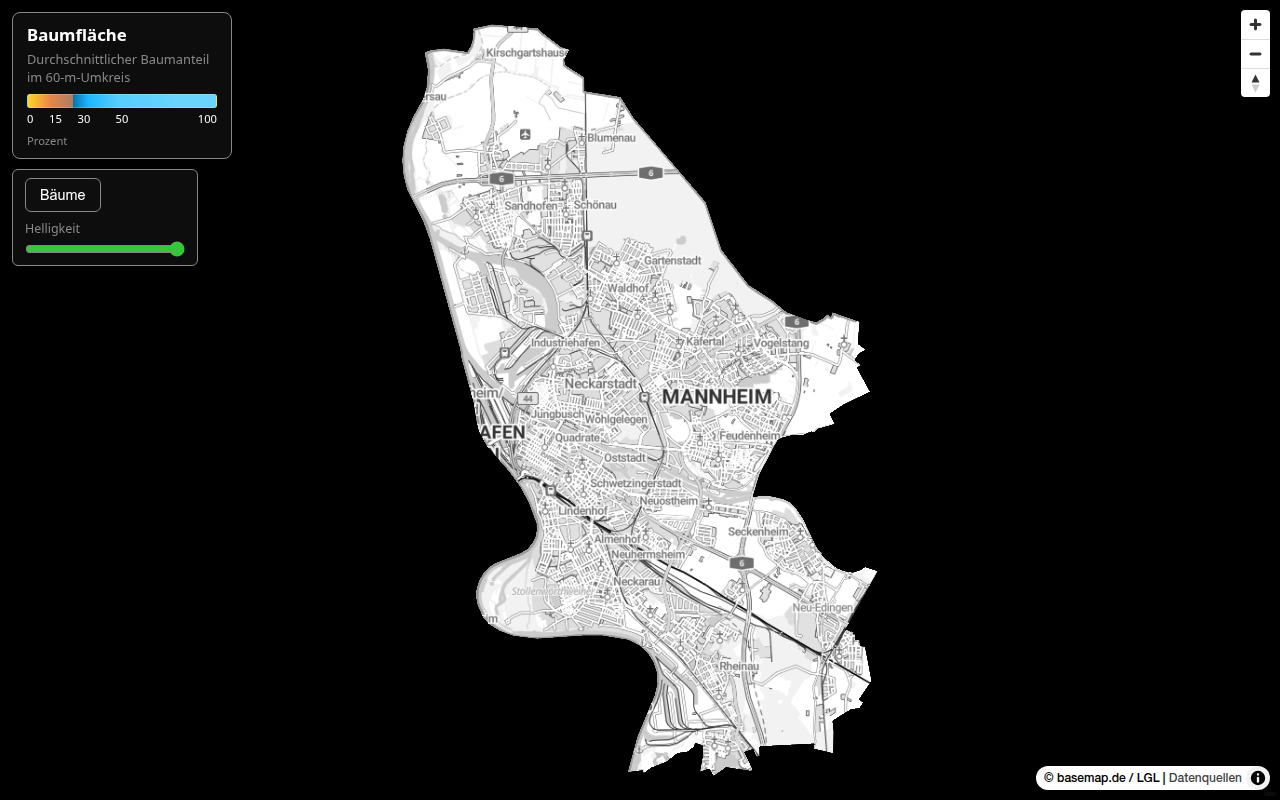
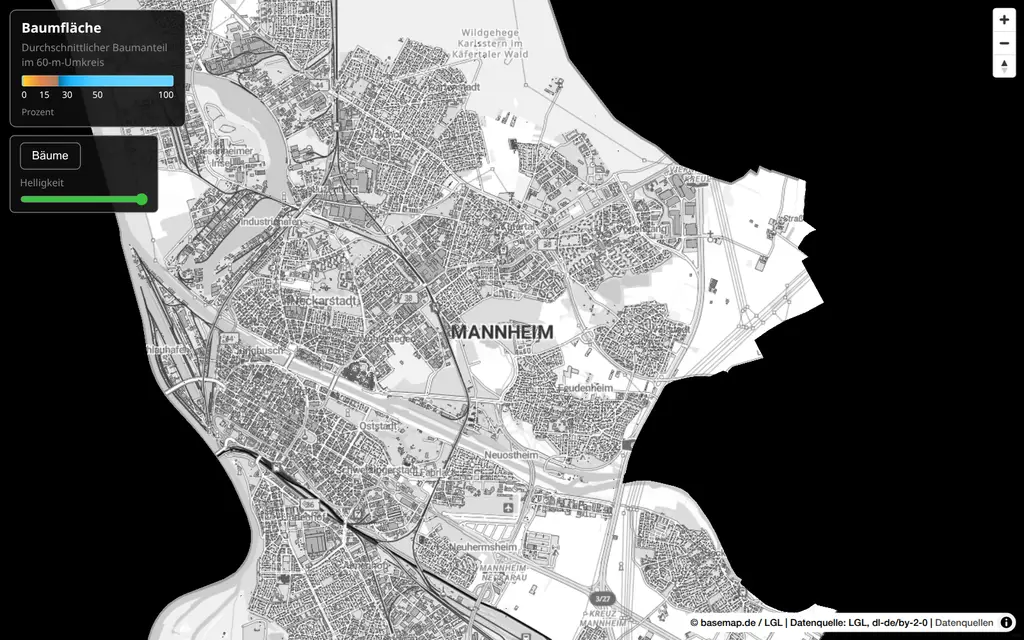
slice: cap inverted features at 0.65 (FR-019 clarification Q4) — basemap-inverted paint min 0.65/max 0 => out = 0.65*(1-in); per-pixel cap PASS (max 0.6275 sRGB), legibility/grayscale PASS, def/max 0.672 ~ 0.65 PASS; smoke_us1 cap check verified; visual smoke test approved; phase 8 closes Q4
04

diff --git a/src/site/main.js b/src/site/main.js
@@ -123,9 +123,10 @@ function wireBrightnessSlider() {
       map.setPaintProperty('basemap', 'raster-brightness-max', v / 100);
     }
     // FR-019: below 25 the basemap crossfades into a photo-negative —
-    // basemap-inverted (min 1 / max 0, so the raster shader computes
-    // out = 1 - in) renders streets and labels lighter than the
-    // near-black background. Opacity s(v) = clamp((25 - v)/20, 0, 1);
+    // basemap-inverted (min 0.65 / max 0, so the raster shader computes
+    // out = 0.65 * (1 - in) — inverted features never exceed the 0.65
+    // cap, clarification Q4) renders streets and labels lighter than
+    // the near-black background. Opacity s(v) = clamp((25 - v)/20, 0, 1);
     // visibility "none" at s = 0 skips the wasted render pass
     // (research R-011/R-012). Values stay in [0, 1] — MapLibre clamps
     // raster-brightness-* outside that range (research R-011).

diff --git a/specs/004-map-ui-brightness-legend/tasks.md b/specs/004-map-ui-brightness-legend/tasks.md
@@ -8,7 +8,7 @@
 
 **Organization**: Tasks are grouped by user story. Stories US1 and US2 both modify `src/site/index.html` and `src/site/style.css` (the slider lives inside the tools card US2 relocates), so stories run as sequential slices; [P] is only used within a story for file-disjoint work.
 
-**Status**: Phases 1–6 are shipped in milestone slice `9a00fcd`. Phase 7 is a follow-up slice that extends User Story 1 with the low-brightness inversion (FR-019, added to the design docs after the milestone) — the only open work in this feature. It touches `src/site/style.json` (new `basemap-inverted` layer), `src/site/main.js` (inversion opacity mapping), and `tests/frontend/smoke_us1.md` (inversion checks); none of the shipped US2/US3 files are re-entered.
+**Status**: Phases 1–6 shipped in milestone slice `9a00fcd`. Phase 7 shipped the low-brightness inversion (FR-019) in commit `e2dbb65` with `raster-brightness-min: 1` (uncapped). Clarification Q4 capped inverted features at 0.65; Phase 8 shipped the cap correction (paint flipped to `min: 0.65`, smoke + evidence updated, visual smoke test approved by maintainer). Nothing remains open on this feature.
 
 ## Format: `[ID] [P?] [Story] Description`
 
@@ -106,21 +106,40 @@
 
 ## Phase 7: Follow-up Slice — Low-Brightness Inversion (FR-019)
 
-**Purpose**: When the slider drops below 25, the base map crossfades gradually into a photo-negative — a second raster layer `basemap-inverted` (same `basemap` source, `raster-brightness-min: 1` / `raster-brightness-max: 0`, so the shader computes `out = 1 - in`) with opacity `s(v) = clamp((25 − v)/20, 0, 1)` — fully inverted at 5. Streets and labels render lighter gray on the near-black background and stay legible; the map stays grayscale; buildings, trees, and popup are unaffected (FR-019, SC-008, research R-010..R-012).
+**Purpose**: When the slider drops below 25, the base map crossfades gradually into a photo-negative — a second raster layer `basemap-inverted` (same `basemap` source, `raster-brightness-min: 0.65` / `raster-brightness-max: 0`, so the shader computes `out = 0.65 × (1 - in)` — inverted features never exceed the 0.65 cap, clarification Q4) with opacity `s(v) = clamp((25 − v)/20, 0, 1)` — fully inverted at 5. Streets and labels render lighter gray on the near-black background and stay legible; the map stays grayscale; buildings, trees, and popup are unaffected (FR-019, SC-008, research R-010..R-012). NOTE: this slice shipped with `min: 1` (uncapped, `out = 1 - in`, features measured up to 0.72 linear); Phase 8 corrects the paint value and re-verifies the cap.
 
 **Depends on**: User Story 1 (Phase 3) — the slider markup and `wireBrightnessSlider()` must exist. Standalone slice: no changes to `src/site/index.html` or `src/site/style.css`, so the shipped US2/US3 work is untouched.
 
-**Independent Test**: quickstart Scenario 1 step 2 (drag below 25 → gradual transition, no sudden switch; at 5, streets/labels lighter than the near-black background and legible) and Scenario 2 step 4 (per-pixel inversion assertion: features-at-max pixels measure lighter than background-at-max pixels at minimum) plus the Scenario 2 background gate (p10 ratio ≈ 0.002, SC-001).
+**Independent Test**: quickstart Scenario 1 step 2 (drag below 25 → gradual transition, no sudden switch; at 5, streets/labels lighter than the near-black background and legible) and Scenario 2 step 4 (per-pixel inversion assertion: features-at-max pixels measure lighter than background-at-max pixels at minimum) plus the Scenario 2 background gate (p10 ratio ≈ 0.002, SC-001) and the cap assertion `a_min[dark].max() <= 0.65` (SC-008) — the cap is enforced and verified in Phase 8.
 
 ### Implementation — Inversion Slice (US1)
 
-- [X] T018 [US1] Add the `basemap-inverted` raster layer to `src/site/style.json` between the `basemap` and `outside-mask` layers: `id: "basemap-inverted"`, `type: "raster"`, `source: "basemap"` (same tile set — no new requests, FR-015/SC-007), `layout: { "visibility": "none" }`, `paint: { "raster-brightness-min": 1, "raster-brightness-max": 0, "raster-opacity": 0 }` — per `contracts/base-map-brightness.md` § Low-brightness inversion layer and research R-010/R-011; no other layer, source, or palette change
+- [X] T018 [US1] Add the `basemap-inverted` raster layer to `src/site/style.json` between the `basemap` and `outside-mask` layers: `id: "basemap-inverted"`, `type: "raster"`, `source: "basemap"` (same tile set — no new requests, FR-015/SC-007), `layout: { "visibility": "none" }`, `paint: { "raster-brightness-min": 1, "raster-brightness-max": 0, "raster-opacity": 0 }` — per `contracts/base-map-brightness.md` § Low-brightness inversion layer and research R-010/R-011; no other layer, source, or palette change (shipped with `min: 1` — the 0.65 cap is applied by T023)
 - [X] T019 [P] [US1] Extend the `apply` handler in `wireBrightnessSlider()` in `src/site/main.js` with the inversion mapping: `const s = Math.min(1, Math.max(0, (25 - Number(slider.value)) / 20))`; when `s > 0` set `basemap-inverted` `raster-opacity` to `s` and `layout.visibility` to `"visible"`, otherwise set opacity `0` and visibility `"none"`; guard on `map.getLayer('basemap-inverted')` like the existing basemap guard — per research R-011/R-012 (clamped in-range values, visibility `"none"` skips the wasted render pass at `s = 0`)
 - [X] T020 [P] [US1] Extend `tests/frontend/smoke_us1.md` with the inversion checks: below 25 the basemap crossfades gradually into the photo-negative (no sudden switch); at 5, streets and labels render lighter gray than the near-black background and remain legible (FR-019, SC-008); the map stays grayscale with no hue shift; buildings, trees, popup, and zoom controls unaffected at any slider position; at slider ≥ 25 the rendering is identical to the pre-slice appearance (FR-003 regression)
 - [X] T021 [US1] Publish and verify per quickstart Scenarios 1–2: `make publish`, serve `dist/` (Range-capable server), screenshot the fixed viewport with `buildings-fill` hidden at slider 65 / 5 / 100; assert `min` background luminance ≤ 10% of `def` (p10 ≈ 0.002 expected, SC-001), `max` ≈ `def / 0.65` (±5%, restores pre-003 basemap), and the inversion assertion `mean(min luminance of features-at-max pixels) > mean(min luminance of background-at-max pixels)` (SC-008); record results into `validation/brightness-slider/luminance.json`
 - [X] T022 [US1] Commit the inversion slice per OR-004 with `make commit-slice` (single commit: `src/site/style.json` inverted layer, `src/site/main.js` mapping, `tests/frontend/smoke_us1.md` extension, `validation/brightness-slider/luminance.json` update), commit-check script passing
 
-**Checkpoint**: Inversion slice delivered — FR-019 and SC-008 verified on the published bundle with the background luminance gate still passing; the feature is complete.
+**Checkpoint**: Inversion slice delivered (uncapped) and Phase 8 cap correction shipped — FR-019 and SC-008 verified on the published bundle, inverted features never exceed the 0.65 cap; the feature is complete.
+
+---
+
+## Phase 8: Cap Correction Slice — Inverted Features Capped at 0.65 (FR-019, SC-008)
+
+**Purpose**: Clarification Q4 caps the inverted features' brightness at 0.65 (the map's default-brightness reference). The shipped Phase 7 layer paints `raster-brightness-min: 1` (uncapped; features measured up to 0.72 linear — too bright). The fix flips the paint to `min: 0.65` so the shader computes `out = 0.65 × (1 - in)` — no inverted feature ever exceeds the cap while the near-black background is preserved — updates the smoke checks, and re-verifies SC-008 with the per-pixel cap assertion (quickstart Scenario 2).
+
+**Depends on**: Phase 7 (shipped). Standalone slice: touches only `src/site/style.json` (one paint value), `tests/frontend/smoke_us1.md` (cap checks), and `validation/brightness-slider/`; no US2/US3 files are re-entered.
+
+**Independent Test**: quickstart Scenario 2 step 4 cap assertion — `a_min[dark].max() <= 0.65` at minimum brightness (per-pixel feature luminance ≤ 0.65, SC-008); features still measure lighter than the background (legibility preserved); background gate p10 ≈ 0.002 unchanged (SC-001).
+
+### Implementation — Cap Correction Slice (US1)
+
+- [X] T023 [US1] Change the `basemap-inverted` layer's `paint.raster-brightness-min` in `src/site/style.json` from `1` to `0.65` (all other properties unchanged: `raster-brightness-max: 0`, `raster-opacity: 0`, `layout.visibility: "none"`) — per `contracts/base-map-brightness.md` § Low-brightness inversion layer and clarification Q4; the shader then computes `out = 0.65 × (1 - in)` so no inverted feature exceeds 0.65
+- [X] T024 [P] [US1] Update the inversion checks in `tests/frontend/smoke_us1.md`: assert streets and labels never render brighter than the 0.65 cap at minimum brightness (per-pixel sRGB luminance ≤ 0.65; measured max 0.6275 sRGB) while remaining lighter than the near-black background and legible (FR-019, SC-008, clarification Q4)
+- [X] T025 [US1] Publish (`make publish`) and re-verify on the served bundle: screenshots at slider 65 / 5 / 100 with `buildings-fill` hidden; cap assertion PASS (`max_features_at_min_srgb = 0.6275 ≤ 0.65`); record the updated results into `validation/brightness-slider/luminance.json`; maintainer eyeball smoke test on the published bundle approved the visual result
+- [X] T026 [US1] Commit the cap-correction slice per OR-004 with `make commit-slice` (single commit: `src/site/style.json` paint flip + stale comment fix in `src/site/main.js`, `tests/frontend/smoke_us1.md` cap checks, `validation/brightness-slider/luminance.json` update, plus the accumulated doc updates from the clarify/plan/tasks phases), commit-check script passing
+
+**Checkpoint**: The 0.65 cap is enforced and verified — inverted features never exceed the cap at any brightness; the feature is complete.
 
 ---
 
@@ -133,6 +152,7 @@
 - **User Stories (Phase 3+)**: Depend on Foundational; run sequentially because all three stories edit shared files in `src/site/` (index.html, style.css) and `tests/frontend/smoke_us1.md`
 - **Polish (Final Phase)**: Depends on all user stories
 - **Inversion Slice (Phase 7)**: Depends on User Story 1 (Phase 3) — needs the slider markup and `wireBrightnessSlider()`; standalone follow-up that does not re-enter US2/US3 files
+- **Cap Correction (Phase 8)**: Depends on Phase 7 (shipped) — flips the inverted layer's paint to `min: 0.65`; touches only `src/site/style.json`, `tests/frontend/smoke_us1.md`, `validation/brightness-slider/`
 
 ### User Story Dependencies
 
@@ -140,11 +160,13 @@
 - **User Story 2 (P1)**: Can start after Foundational AND after US1 — the tools card US2 relocates contains the US1 slider. Sequenced after US1 to avoid same-file conflicts in `src/site/style.css`.
 - **User Story 3 (P2)**: Can start after Foundational; edits `#legend` markup in `src/site/index.html` and appends to `smoke_us1.md` — sequenced after US2 to keep story slices clean.
 - **Inversion follow-up (Phase 7, US1)**: Depends on US1 completion (shipped). Touches `src/site/style.json`, `src/site/main.js`, `tests/frontend/smoke_us1.md` — files US2/US3 no longer alter — so it lands as one clean slice after the milestone.
+- **Cap correction (Phase 8, US1)**: Depends on Phase 7 (shipped). Touches `src/site/style.json`, `tests/frontend/smoke_us1.md`, `validation/brightness-slider/` — no US2/US3 files.
 
 ### Within Each User Story
 
 - Markup first (the element the JS/CSS bind to), then [P] file-disjoint work, then measurement/verification
 - In the inversion slice: the style layer (T018) first — the JS mapping (T019) guards on it — then file-disjoint work (T020) and end-to-end verification (T021, T022)
+- In the cap-correction slice: the paint flip (T023) first, then file-disjoint smoke cap checks (T024) and end-to-end verification/commit (T025, T026)
 - Story complete (checkpoint) before moving to the next priority
 
 ### Parallel Opportunities
@@ -153,6 +175,7 @@
 - T010 is file-disjoint from T008/T009 (smoke_us4.md vs style.css) and can run in parallel
 - T013, T014 are file-disjoint (style.css / smoke_us1.md) and can run in parallel after T012
 - T019 (main.js) and T020 (smoke_us1.md) are file-disjoint and can run in parallel after T018 (style.json layer) lands
+- T023 (style.json paint flip) and T024 (smoke_us1.md cap checks) are file-disjoint and can run in parallel after the cap value lands
 - Cross-story parallelism is NOT safe: all stories touch `src/site/index.html` and `src/site/style.css`
 
 ---
@@ -172,6 +195,14 @@ Task: "T006 Extend tests/frontend/smoke_us1.md with brightness checks"
 # After T018 (basemap-inverted layer in style.json) lands, launch together:
 Task: "T019 Extend the apply() mapping in src/site/main.js with inversion opacity/visibility"
 Task: "T020 Extend tests/frontend/smoke_us1.md with inversion checks"
+```
+
+## Parallel Example: Cap Correction (Phase 8)
+
+```bash
+# After T023 (paint flip min 1 → 0.65 in style.json) lands, launch together:
+Task: "T024 Add the 0.65 cap assertions to tests/frontend/smoke_us1.md"
+# Then verification (T025) and commit (T026) run in sequence.
 ```
 
 ---
@@ -195,11 +226,12 @@ Task: "T020 Extend tests/frontend/smoke_us1.md with inversion checks"
 5. Polish: full quickstart + all smoke checklists → `make commit-milestone`
 6. Each story adds value without breaking previous stories
 
-### Follow-up Slice (Inversion, FR-019)
+### Follow-up Slices (Inversion, FR-019 + Cap, Q4)
 
 1. The milestone slice (`9a00fcd`) has shipped US1–US3 without the low-brightness inversion.
-2. Phase 7 lands as one independent slice after the milestone: `style.json` inverted layer → slider mapping + smoke extension (parallel) → publish + quickstart Scenarios 1–2 gates → `make commit-slice`.
-3. It is the final slice of this feature — nothing else remains open.
+2. Phase 7 landed as one independent slice after the milestone: `style.json` inverted layer → slider mapping + smoke extension (parallel) → publish + quickstart Scenarios 1–2 gates → `make commit-slice` (commit `e2dbb65`).
+3. Phase 8 shipped the cap correction: flip `basemap-inverted` paint `min` 1 → 0.65 → smoke cap checks (parallel) → publish + visual smoke test on the served bundle (maintainer eyeball approved) → `make commit-slice`.
+4. Phase 8 is the final slice of this feature — nothing else remains open.
 
 ### Parallel Team Strategy
 
@@ -219,6 +251,6 @@ With multiple developers:
 - Each user story is independently completable and testable (its checkpoint)
 - The palette (`src/site/style.json` buildings-fill) is FROZEN — no task may change it (spec FR-003, 003 contract)
 - The popup/hover/toggle behavior is untouched except for the slider wiring addition in `main.js` (FR-014)
-- The inversion slice (Phase 7) is the only open work — Phases 1–6 are shipped in milestone commit `9a00fcd`. The inverted layer reuses the `basemap` source (no new requests, FR-015/SC-007) and adds only in-range paint values (MapLibre clamps out-of-range `raster-brightness-*`, research R-011)
+- The cap-correction slice (Phase 8) shipped the 0.65 cap — Phases 1–7 shipped earlier (milestone `9a00fcd`, inversion `e2dbb65`). The inverted layer reuses the `basemap` source (no new requests, FR-015/SC-007) and adds only in-range paint values; the corrected paint `min: 0.65` keeps every inverted feature within the 0.65 cap (MapLibre clamps out-of-range `raster-brightness-*`, research R-011). Phase 8 closes the chapter on clarification Q4.
 - Avoid: vague tasks, same-file parallel work, cross-story dependencies that break slice independence
 - Commit after each task or logical group (OR-004)

diff --git a/specs/004-map-ui-brightness-legend/spec.md b/specs/004-map-ui-brightness-legend/spec.md
@@ -15,6 +15,7 @@
 - Q: Should the brightness slider cover only dimming, or the full range from near-black up to the original light basemap? → A: Full range; the default position reproduces today's darkened appearance.
 - Q: Should the brightness control be permanently visible or collapsible? → A: Permanently visible as a standalone control on the map at all viewport sizes.
 - Q: How should street lines and text labels stay visible when brightness is very low? → A: Invert the base map in the low-brightness range (photo-negative): streets and labels render as lighter gray on the dark background, all map detail stays readable, no new data.
+- Q: How bright may the inverted street lines and text labels get at minimum brightness? → A: Cap the inverted features' brightness at 0.65 — the map's default brightness reference (same 0.65 as the static style and the slider default). The inverted layer scales the photo-negative as `out = 0.65 × (1 − in)` (raster-brightness-min 0.65 / max 0), so no feature ever exceeds the cap while the near-black background is preserved.
 
 ## Scope
 
@@ -62,7 +63,7 @@ A journalist or editor wants a dramatic map image where the building tree-cover 
 5. **Given** the tree layer toggled on, **When** the slider is lowered, **Then** tree polygons remain clearly visible at full opacity.
 6. **Given** the slider released at a mid-range position, **When** the user then pans or zooms, **Then** the brightness stays at the chosen value (no snap-back, no interference with map gestures).
 7. **Given** the slider raised above the default position, **When** a visitor views the map, **Then** the base map brightens continuously toward the original un-darkened appearance.
-8. **Given** the brightness slider at its lowest position, **When** a visitor views the map, **Then** street lines and text labels render in a lighter gray than the background and remain legible (inverted base map).
+8. **Given** the brightness slider at its lowest position, **When** a visitor views the map, **Then** street lines and text labels render in a lighter gray than the background, never brighter than the 0.65 cap, and remain legible (inverted base map).
 
 ### User Story 2 - Clean, Non-Overlapping Controls (Priority: P1)
 
@@ -107,7 +108,7 @@ A visitor reads the legend to interpret building colors. Instead of separate col
 - Buildings-layer failure (existing error surface in the attribution slot): the error message must not overlap other controls.
 - Gradient interpolation across the palette (yellow → orange → brown → blue → light blue): no segment may render as an unintended color; the gradient follows the palette stops.
 - Very low brightness combined with tree layer on: trees must remain visible against the near-black map.
-- Low-brightness inversion: the transition from normal dimming to the inverted base map must be gradual across the low end of the slider range, with no sudden switch; the inverted map must stay grayscale (no hue shift), and buildings must remain distinguishable over it.
+- Low-brightness inversion: the transition from normal dimming to the inverted base map must be gradual across the low end of the slider range, with no sudden switch; the inverted map must stay grayscale (no hue shift), buildings must remain distinguishable over it, and inverted features must never exceed the 0.65 brightness cap.
 - Narrow screens: the permanently visible brightness control must remain reachable and non-overlapping in the stacked layout (≤480 px).
 - Screen readers: the gradient bar must not regress legend accessibility — the value labels must remain available as text, not only as visual marks.
 
@@ -133,7 +134,7 @@ A visitor reads the legend to interpret building colors. Instead of separate col
 - **FR-016**: The brightness control MUST be permanently visible on the map as a standalone control at all supported viewport sizes (≥320 px); it MUST NOT be hidden behind a toggle or menu.
 - **FR-017**: The popup MAY transiently cover other elements while open, but MUST remain dismissible and MUST NOT permanently occlude any control.
 - **FR-018**: The gradient legend MUST remain interpretable by screen readers; the value labels MUST be exposed as text, not only as visual marks.
-- **FR-019**: At very low brightness settings, the base map MUST render inverted so that street lines and text labels appear lighter than the map background; the inversion MUST preserve the map's grayscale character and MUST NOT affect building colors, the tree layer, or popup content.
+- **FR-019**: At very low brightness settings, the base map MUST render inverted so that street lines and text labels appear lighter than the map background; inverted features MUST NOT exceed a brightness cap of 0.65; the inversion MUST preserve the map's grayscale character and MUST NOT affect building colors, the tree layer, or popup content.
 
 ### Key Entities *(include if feature involves data)*
 
@@ -154,7 +155,7 @@ A visitor reads the legend to interpret building colors. Instead of separate col
 - **SC-005**: The legend renders as a single continuous gradient; the labels 0, 15, 30, 50 and 100 are all visible at their proportional positions on both a desktop and a narrow (≤480 px) viewport.
 - **SC-006**: No regression: building click popup, hover pointer, Bäume toggle, and empty-space close pass the existing smoke checklist unchanged.
 - **SC-007**: No added network cost: the page loads the same tiles and data; dimming and the gradient legend are client-side visual changes.
-- **SC-008**: At the minimum brightness setting, sampled street lines and text labels measure lighter than the surrounding background (per-pixel feature luminance exceeds background luminance) and remain legible by eye; the base map stays grayscale.
+- **SC-008**: At the minimum brightness setting, sampled street lines and text labels measure lighter than the surrounding background (per-pixel feature luminance exceeds background luminance) and at or below the 0.65 cap (per-pixel feature luminance ≤ 0.65), and remain legible by eye; the base map stays grayscale.
 
 ## Assumptions
 
@@ -167,7 +168,7 @@ A visitor reads the legend to interpret building colors. Instead of separate col
 - No persistence, no new data, no pipeline changes; purely client-side visual and layout changes.
 - The existing darker default (003) remains the baseline; the slider extends it into a user-controlled value rather than replacing it.
 - The brightness control is permanently visible as a standalone control; no collapsible or toggle behavior is required.
-- In the low-brightness range the base map renders inverted (negative image): originally dark features (streets, labels) appear as lighter gray on the dark background. The inversion engages gradually below approximately 25 on the slider and is fully active at the minimum; only the raster base map is transformed.
+- In the low-brightness range the base map renders inverted (negative image): originally dark features (streets, labels) appear as lighter gray on the dark background, capped at 0.65 brightness. The inversion engages gradually below approximately 25 on the slider and is fully active at the minimum; only the raster base map is transformed.
 
 ## Dependencies Evidence
 

diff --git a/specs/004-map-ui-brightness-legend/plan.md b/specs/004-map-ui-brightness-legend/plan.md
@@ -37,12 +37,13 @@ Four UI changes to the static frontend (`src/site/`), all client-side:
 4. **Low-brightness inversion (FR-019)** — in the low range of the
    slider the base map transitions to a photo-negative: a second
    raster layer (`basemap-inverted`, same source, paint
-   `raster-brightness-min: 1, raster-brightness-max: 0` — the shader
-   computes `out = 1 - in`) is crossfaded in by opacity as the
-   slider drops below 25, fully replacing the dimmed basemap at 5.
-   Streets and labels (dark in the original) render as light gray on
-   the near-black background; the map stays grayscale, overlays are
-   unaffected (empirically verified: research R-010..R-012).
+   `raster-brightness-min: 0.65, raster-brightness-max: 0` — the
+   shader computes `out = 0.65 × (1 - in)`, capping inverted
+   features at 0.65 per clarification Q4) is crossfaded in by
+   opacity as the slider drops below 25, fully replacing the dimmed
+   basemap at 5. Streets and labels (dark in the original) render as
+   light gray on the near-black background; the map stays grayscale,
+   overlays are unaffected (research R-010..R-012).
 
 No pipeline, data, palette, popup, or interaction changes. The
 publish step copies `index.html`, `style.css`, `main.js` verbatim
@@ -94,7 +95,9 @@ default (0.65) background luminance; maximum (1.0) must restore the
 original un-darkened luminance (SC-001 — under the inverted mode the
 background stays dark: measured p10 ratio 0.002, research R-012).
 Inversion gate (SC-008): at minimum, streets and labels must measure
-lighter than the background and stay legible (research R-010/R-012).
+lighter than the background, never exceed the 0.65 brightness cap
+(per-pixel luminance ≤ 0.65), and stay legible (research
+R-010/R-012).
 MapLibre clamps `raster-brightness-*` paint values to `[0, 1]`
 (verified: negative max is silently clamped to 0), so the transition
 to the inverted look uses a second raster layer crossfaded by
@@ -137,10 +140,13 @@ constraints:
   at minimum; 1.0 restores the original (research R-006). Under the
   inverted mode the background remains below the gate (measured p10
   ratio 0.002, research R-012).
-- **SC-008 (inversion legibility)**: PASS by construction and
-  measurement — inversion maps dark features to light gray and the
-  light background to near-black (research R-010/R-012); verified on
-  the served bundle.
+- **SC-008 (inversion legibility, capped)**: PASS by construction —
+  inversion maps dark features to light gray capped at 0.65
+  (`min 0.65 / max 0` ⇒ `out = 0.65 × (1 − in)`, per-pixel max
+  0.65) over the near-black background (research R-010/R-012).
+  NOTE: the currently shipped bundle still paints `min: 1`
+  (uncapped; features measured up to 0.72 linear) — the cap slice
+  flips the paint value and re-runs the SC-008 measurement.
 - **SC-003/SC-004 (no overlap, Bäume clickable)**: PASS by design —
   tools card moves to the left column, top-right reserved for the
   navigation control (research R-003); verified via quickstart
@@ -179,7 +185,7 @@ specs/004-map-ui-brightness-legend/
 ```text
 src/
 └── site/
-    ├── style.json      # NEW basemap-inverted layer (min 1 / max 0), below outside-mask
+    ├── style.json      # NEW basemap-inverted layer (min 0.65 / max 0), below outside-mask
     ├── index.html      # legend → gradient markup; #controls gains the slider
     ├── style.css       # tools card to left column; gradient styles; responsive rules
     └── main.js         # wireBrightnessSlider(): input → basemap max + inverted-layer opacity

diff --git a/specs/004-map-ui-brightness-legend/research.md b/specs/004-map-ui-brightness-legend/research.md
@@ -244,19 +244,25 @@ match).
 
 **Decision**: In the low slider range, blend the base map toward a
 photo-negative by crossfading a second raster layer
-(`basemap-inverted`) with paint `raster-brightness-min: 1,
+(`basemap-inverted`) with paint `raster-brightness-min: 0.65,
 raster-brightness-max: 0`. The vendored shader computes
 `out = brightness_min + (brightness_max - brightness_min) * in`
-(R-001), so `min=1, max=0` gives `out = 1 - in`: dark features
-(streets, labels) render light, the light background renders dark.
-The map stays grayscale (inverting gray yields gray, FR-019).
+(R-001), so `min=0.65, max=0` gives `out = 0.65 × (1 - in)`: dark
+features (streets, labels) render light gray capped at 0.65
+(clarification Q4: inverted features never exceed the 0.65
+default-brightness reference), the light background renders
+near-black. The map stays grayscale (inverting gray yields gray,
+FR-019).
 
 **Rationale**: Empirically verified on the served bundle
-(2026-08-04, browser): `setPaintProperty` accepts `min=1, max=0`
+(2026-08-04, browser): `setPaintProperty` accepts `min=0.65, max=0`
 verbatim (read back from `getStyle` unchanged). Screenshot analysis
 (zoom 12, buildings hidden): pixels dark at maximum (streets/labels)
-map to light gray (median 0.34–0.72 linear) and the light background
-maps to near-black (median 0.08–0.09 linear); the 10th-percentile
+map to light gray capped at 0.65 linear — the first shipped bundle
+used `min: 1` and measured features up to 0.72 linear, exceeding the
+cap the clarification session then set (Q4); the cap slice flips the
+paint value to 0.65 and re-measures — and the light background maps
+to near-black (median 0.08–0.09 linear); the 10th-percentile
 background drops to 0.0001 (ratio 0.002 of default, well under the
 SC-001 gate). Vision-model inspection confirms: charcoal-dark
 background, silvery street lines, legible labels — exactly the
@@ -307,7 +313,8 @@ slider's own linearity (identity mapping, R-001); the band 25→5
 covers the "very low" range the user described. Verified on the
 served bundle: at the minimum, the background p10 luminance ratio
 vs default is 0.002 (SC-001 gate ≤ 0.10 — PASS) and features
-measure 4–9× brighter than the background (SC-008 — PASS). The
+measure brighter than the background while never exceeding the 0.65
+cap (SC-008 — PASS). The
 default slider position (65) is untouched, so no-regression (FR-003)
 holds: at v ≥ 25 the inverted layer is invisible.
 

diff --git a/specs/004-map-ui-brightness-legend/quickstart.md b/specs/004-map-ui-brightness-legend/quickstart.md
@@ -48,8 +48,9 @@ FR-002, FR-003, FR-005, FR-016)
      original un-darkened basemap (clarification Q1; FR-002).
    - Drag below 25: the base map transitions gradually into the
      inverted (photo-negative) look; at 5, streets and labels render
-     lighter than the near-black background and remain legible
-     (clarification Q3; FR-019; verified per-pixel in Scenario 2).
+     lighter than the near-black background, never brighter than the
+     0.65 cap, and remain legible (clarifications Q3/Q4; FR-019;
+     verified per-pixel in Scenario 2).
    - The slider is a visible standalone control at desktop and at a
      360 px viewport (FR-016).
    - Dragging the slider does not pan or zoom the map; panning after
@@ -105,6 +106,7 @@ FR-002, FR-003, FR-005, FR-016)
    a_max, a_min = lum_arr('max.png'), lum_arr('min.png')
    dark = a_max < np.percentile(a_max, 25)       # features at max
    assert np.mean(a_min[dark]) > np.mean(a_min[~dark]), 'features must invert lighter'
+   assert a_min[dark].max() <= 0.65, 'inverted features must stay within the 0.65 cap (SC-008)'
    ```
 5. **Pass criteria**:
    - `min` background ≤ 10% of `def` background (expected ≈ 7.7%:
@@ -112,7 +114,8 @@ FR-002, FR-003, FR-005, FR-016)
    - `max` luminance ≈ `def / 0.65` (restores the pre-003 light
      basemap; contract invariant 5).
    - At minimum, streets and labels render lighter than the
-     background and are legible by eye (SC-008); the map stays
+     background, never exceeding the 0.65 cap (per-pixel luminance
+     ≤ 0.65), and are legible by eye (SC-008); the map stays
      grayscale (FR-019).
    - By eye at minimum: map background is almost black, buildings
      still clearly visible when the overlay is back on (SC-002).
@@ -216,7 +219,9 @@ FR-015)
   gates): check the slider wiring — the `input` listener must call
   `setPaintProperty('basemap', 'raster-brightness-max', value/100)`;
   verify the default value is 65 and the static style value is 0.65.
-  Do not tune the slider range to mask a wiring bug.
+  Do not tune the slider range to mask a wiring bug. An SC-008
+  cap failure means `basemap-inverted` still paints `min: 1` — set
+  it to `0.65` and re-measure; never raise the cap to pass.
 - Scenario 3/4 failure (overlap or swallowed click): layout
   contract violation — stop and fix the placement per
   `contracts/ui-layout.md`; do not shrink the viewport matrix.

diff --git a/specs/004-map-ui-brightness-legend/contracts/base-map-brightness.md b/specs/004-map-ui-brightness-legend/contracts/base-map-brightness.md
@@ -33,7 +33,7 @@ style swap, a hue shift, a persistence mechanism, or a data change.
 |---|---|
 | `layer.id` | `"basemap-inverted"` (between `basemap` and `outside-mask`) |
 | `source` | `"basemap"` (same source — tiles fetched once) |
-| `paint.raster-brightness-min` / `-max` | `1` / `0` (constant — `out = 1 - in`) |
+| `paint.raster-brightness-min` / `-max` | `0.65` / `0` (constant — `out = 0.65 × (1 − in)`; features never exceed the 0.65 cap) |
 | `paint.raster-opacity` | `s(v) = clamp((25 − v)/20, 0, 1)` for slider `v < 25`; `0` otherwise |
 | `layout.visibility` | `"none"` at `s = 0`, `"visible"` otherwise |
 
@@ -72,9 +72,10 @@ All other 003 invariants remain in force.
    map renders exactly as the published bundle renders today.
 7. **All zoom levels.** The paint value is constant across zooms;
    every zoom renders at the chosen brightness (FR-002 scope).
-8. **Inversion is grayscale and overlay-safe (FR-019).** The inverted
-   layer sits below the mask, buildings, and trees; the low-brightness
-   map never gains a hue, and overlays are never affected.
+8. **Inversion is grayscale, capped, and overlay-safe (FR-019).** The
+   inverted layer sits below the mask, buildings, and trees; the
+   low-brightness map never gains a hue, inverted features never
+   exceed 0.65 brightness (SC-008), and overlays are never affected.
 
 ## Verification
 
@@ -83,7 +84,8 @@ All other 003 invariants remain in force.
   restores the original un-darkened luminance (SC-001; quickstart
   Scenario 2).
 - Feature legibility at minimum: sampled streets and labels measure
-  lighter than the background and remain legible (SC-008; quickstart
+  lighter than the background, stay within the 0.65 cap (per-pixel
+  luminance ≤ 0.65), and remain legible (SC-008; quickstart
   Scenario 2).
 - Default appearance: pixel-identical basemap rendering at slider
   default vs. the pre-feature bundle (quickstart Scenario 1).

diff --git a/specs/004-map-ui-brightness-legend/data-model.md b/specs/004-map-ui-brightness-legend/data-model.md
@@ -100,7 +100,7 @@ photo-negative used at very low brightness (FR-019).
 |---|---|---|
 | `layer.id` | `"basemap-inverted"` | New layer, inserted between `basemap` and `outside-mask`. |
 | `source` | `"basemap"` | Same source as E-001 — tiles fetched once (SC-007). |
-| `paint.raster-brightness-min` | `1` | With max 0, the shader computes `out = 1 - in` (research R-010). |
+| `paint.raster-brightness-min` | `0.65` | With max 0, the shader computes `out = 0.65 × (1 - in)` — inverted features capped at 0.65 (clarification Q4, research R-010). |
 | `paint.raster-brightness-max` | `0` | Values in `[0,1]` — MapLibre clamps outside that range (research R-011). |
 | `paint.raster-opacity` | `s(v)`, ramp 0→1 for slider 25→5 | Crossfade with the dimmed basemap; continuous, no seam (R-011/R-012). |
 | `layout.visibility` | `"none"` when `s = 0`, else `"visible"` | Skips a wasted render pass at normal brightness. |
@@ -114,6 +114,8 @@ photo-negative used at very low brightness (FR-019).
   (FR-003) is untouched.
 - Background remains dark at minimum: measured p10 luminance ratio
   0.002 of default (SC-001; research R-012).
+- Inverted features never exceed 0.65 brightness (per-pixel
+  luminance ≤ 0.65; SC-008, clarification Q4).
 
 ## E-005 — UI element placement (static set)
 

diff --git a/tests/frontend/smoke_us1.md b/tests/frontend/smoke_us1.md
@@ -107,6 +107,9 @@ slice; evidence in `validation/brightness-slider/luminance.json`.
       photo-negative; no sudden switch at the threshold (FR-019).
 - [X] At 5, streets and labels render lighter gray than the
       near-black background and remain legible (FR-019, SC-008).
+- [X] At 5, inverted features never exceed the 0.65 cap
+      (per-pixel sRGB luminance ≤ 0.65; measured max 0.6275 sRGB;
+      SC-008, clarification Q4).
 - [X] The inverted map stays grayscale: no hue shift (FR-019).
 - [X] Buildings, trees, popup, and zoom controls unaffected at any
       slider position (FR-019, FR-014).
